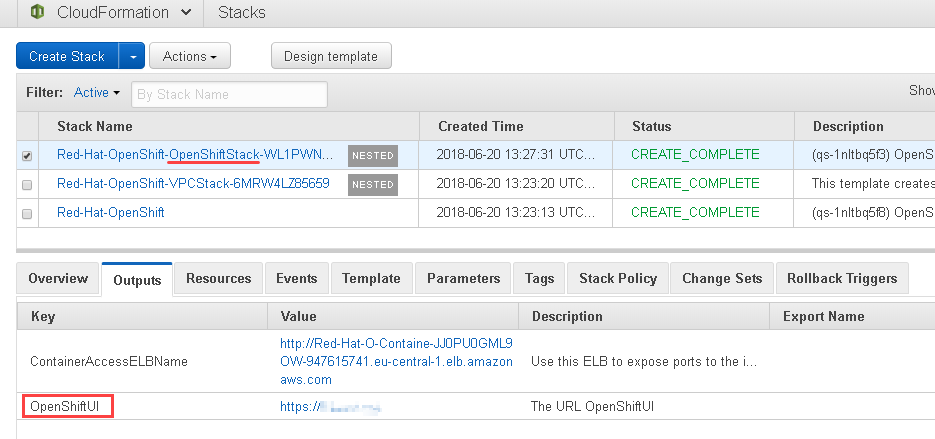
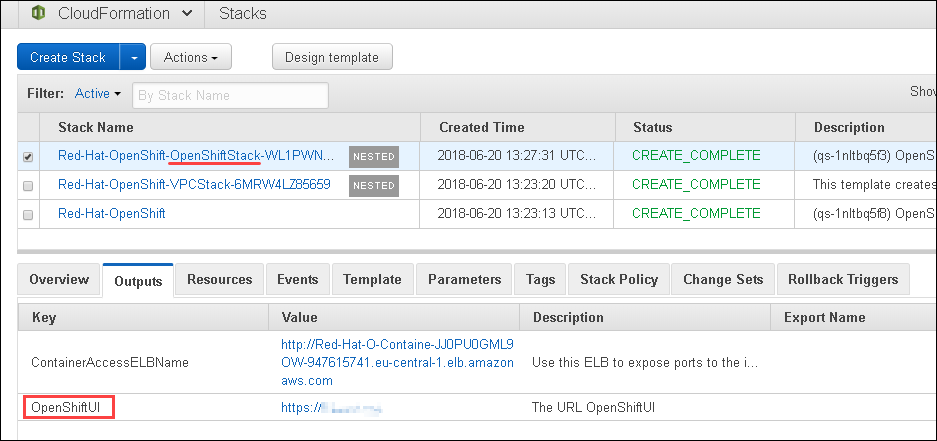
DOC-3427: Doc edits.
Tidy up images a bit (add border, straighten callouts)
Muck about with white spacing. I hate markdown.

diff --git a/docs/PubSubPlusOpenShiftDeployment.md b/docs/PubSubPlusOpenShiftDeployment.md
@@ -131,11 +131,10 @@ By default, the deployment scripts pull the Solace PubSub+ image from the [Red H
 However, if you need to use a private image registry, such as AWS ECR, you must supply a pull secret to enable access to the registry. The steps that follow show how to use AWS ECR for the broker image.
 
 1. Download a free trial of the the Solace PubSub+ Enterprise Evaluation Edition by going to the **Docker** section of the [Solace Downloads](https://solace.com/downloads/?fwp_downloads_types=pubsub-enterprise-evaluation) page, or obtain an image from Solace Support.
-2. Push the broker image to the private registry. Follow the specific procedures for the registry you are using. For ECR, see the diagram below as well as the instructions in [Using Amazon ECR with the AWS CLI](https://docs.aws.amazon.com/AmazonECR/latest/userguide/getting-started-cli.html).
-![alt text](/docs/images/ECR-Registry.png "ECR Registry")
+2. Push the broker image to the private registry. Follow the specific procedures for the registry you are using. For ECR, see the diagram below as well as the instructions in [Using Amazon ECR with the AWS CLI](https://docs.aws.amazon.com/AmazonECR/latest/userguide/getting-started-cli.html).<br /><br />
+    ![alt text](/docs/images/ECR-Registry.png "ECR Registry")<br />
+<br />
     >Note: If you are advised to run `aws ecr get-login-password` as part of the "Authenticate to your registry" step and it fails, try running `$(aws ecr get-login --region <your-registry-region> --no-include-email)` instead. 
-    
-    
 
 3. Create a pull secret from the registry information in the Docker configuration. This assumes that the ECR login happened on the same machine:
     ```
@@ -174,9 +173,9 @@ The Operator detects (1) whether the OpenShift platform is used and (2) the name
 
 | OpenShift Project (Namespace) | Broker Spec Parameter | General Kubernetes Defaults (for information only) | OpenShift Defaults |
 | --- | --- | --- | --- |
-| Any, excluding `default`—Note: We recommend that you do NOT use the `default` project | `spec.securityContext.runAsUser` | 1000001| Not set (OpenShift sets it according to the OpenShift project settings) |
+| Any, excluding `default`. <br /><br />**Note:** We recommend that you do NOT use the `default` project. | `spec.securityContext.runAsUser` | 1000001| Not set (OpenShift sets it according to the OpenShift project settings) |
 || `spec.securityContext.fsGroup` | 1000002 | Not set (OpenShift sets it according to the OpenShift project settings) |
-| `default`—Note: Not recommended | `spec.securityContext.runAsUser` | 1000001 | 1000001 |
+| `default` <br /><br />**Note:** Not recommended | `spec.securityContext.runAsUser` | 1000001 | 1000001 |
 || `spec.securityContext.fsGroup` | 1000002 | 1000002 |
 | All OpenShift projects | `spec.image` | solace/solace-pubsub-standard | registry.connect.redhat.com/solace/pubsubplus-standard |
 | | `spec.monitoring.image` | solace/solace-prometheus-exporter | registry.connect.redhat.com/solace/pubsubplus-prometheus-exporter |
@@ -275,6 +274,7 @@ Monitoring must be enabled for user-defined projects by [creating a `user-worklo
 After this, the only step required to [connect the broker metrics with Prometheus](https://github.com/SolaceDev/pubsubplus-kubernetes-operator/blob/v1.0.0/docs/EventBrokerOperatorUserGuide.md#connecting-with-prometheus) is to [create a ServiceMonitor object](https://github.com/SolaceDev/pubsubplus-kubernetes-operator/blob/v1.0.0/docs/EventBrokerOperatorUserGuide.md#creating-a-servicemonitor-object) in the project where the broker has been deployed.
 
 Check the OpenShift admin console in "Administrator" view to verify that the monitoring endpoint for the event broker deployment has been connected to Prometheus:
+
 ![alt text](/docs/images/PrometheusTargets.png "Prometheus targets")
 
 To enable custom Dashboards in the Grafana UI, you must install the community Grafana Operator from OpenShift's OperatorHub and then connect it to OpenShift Prometheus via a GrafanaDataSource.
